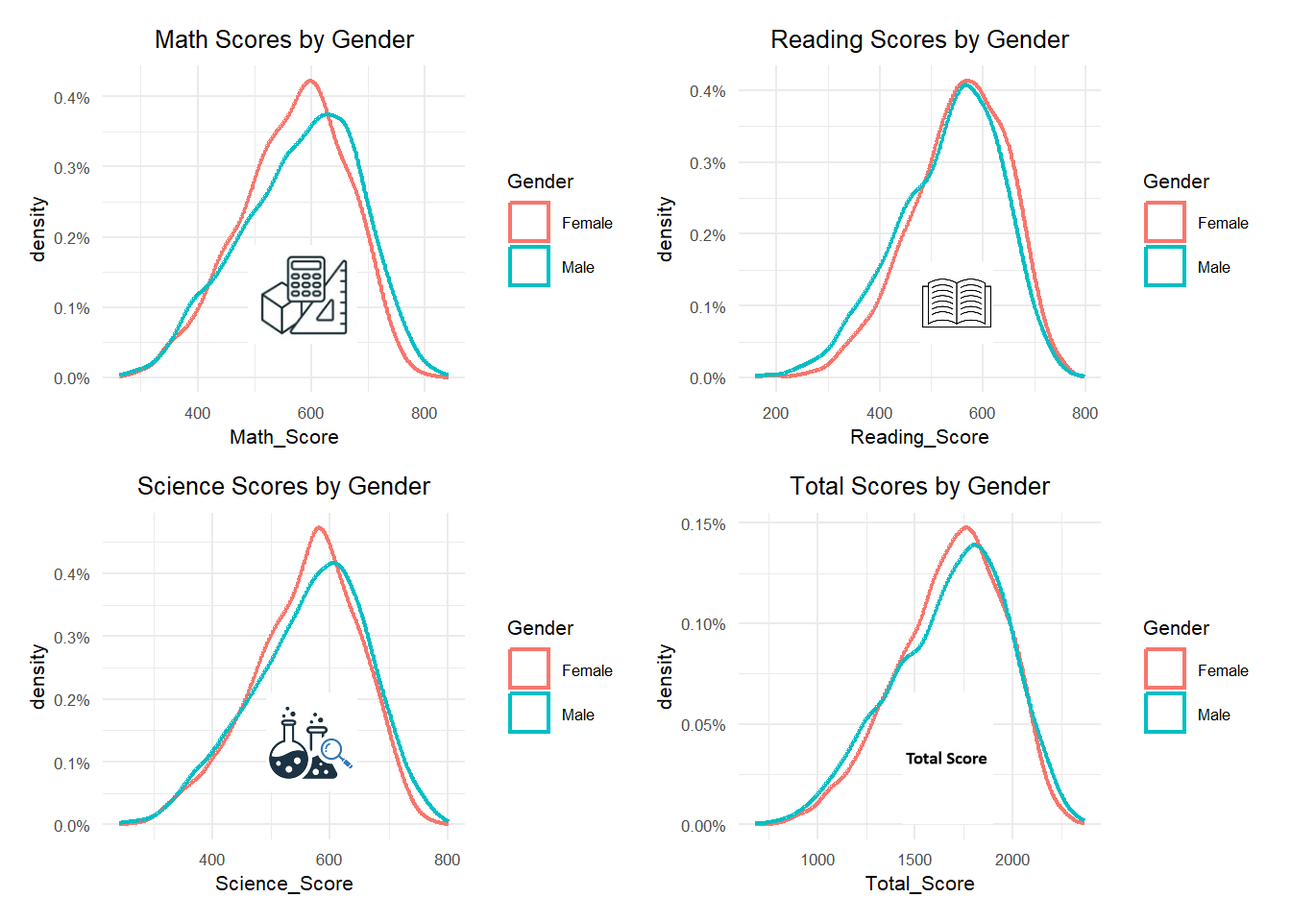
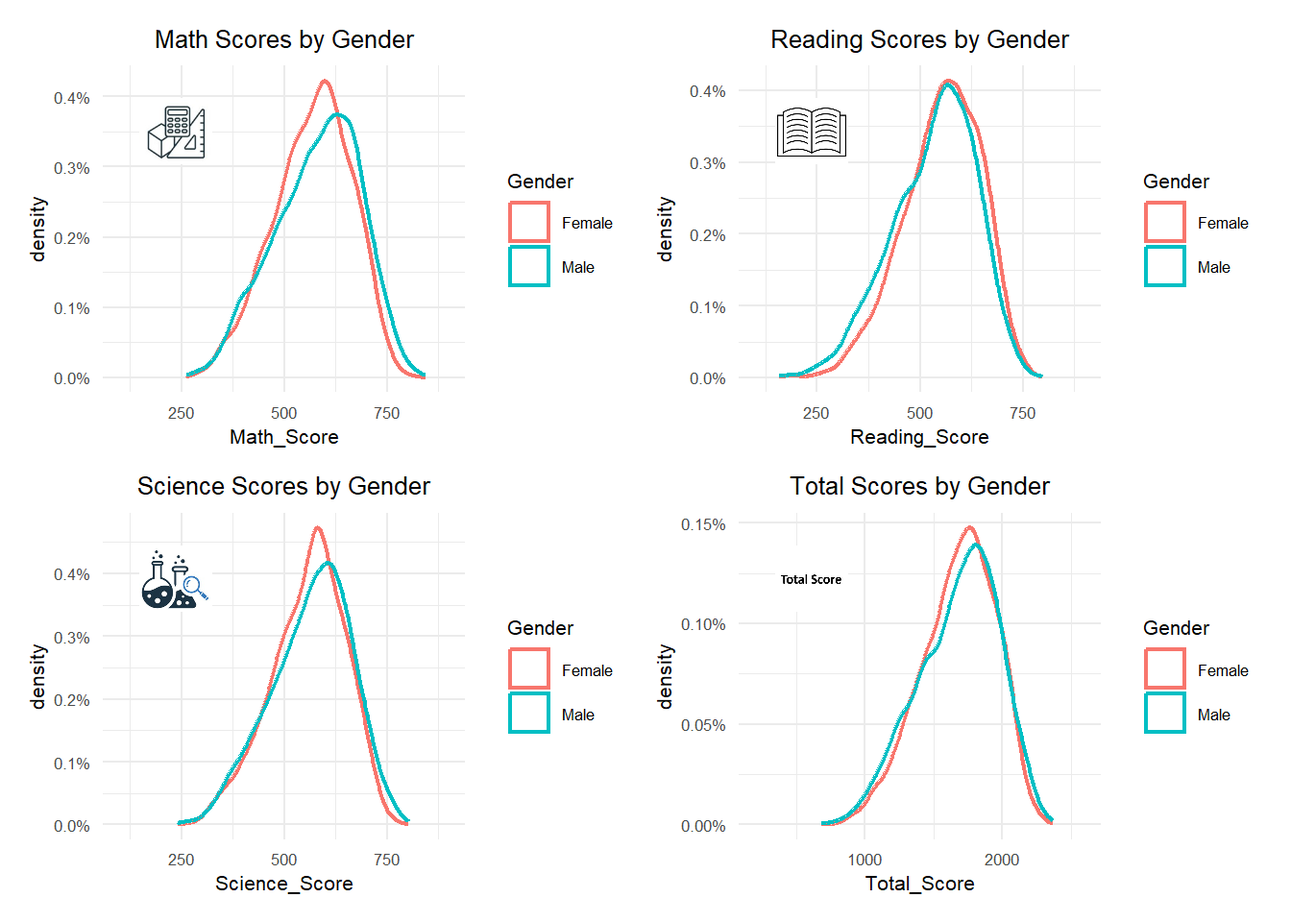
Commit

diff --git a/_site/Take-home_Ex/Take-home_Ex02/Take-home_Ex02.html b/_site/Take-home_Ex/Take-home_Ex02/Take-home_Ex02.html
@@ -443,73 +443,77 @@ pre > code.sourceCode > span > a:first-child::before { text-decoration: underlin
 <span id="cb6-6"><a href="#cb6-6" aria-hidden="true" tabindex="-1"></a>  <span class="fu">labs</span>(<span class="at">title =</span> <span class="st">"Math Scores by Gender"</span>) <span class="sc">+</span></span>
 <span id="cb6-7"><a href="#cb6-7" aria-hidden="true" tabindex="-1"></a>  <span class="fu">theme</span>(<span class="at">legend.position =</span> <span class="st">"none"</span>) <span class="sc">+</span></span>
 <span id="cb6-8"><a href="#cb6-8" aria-hidden="true" tabindex="-1"></a>  <span class="fu">scale_y_continuous</span>(<span class="at">labels =</span> scales<span class="sc">::</span>percent) <span class="sc">+</span></span>
-<span id="cb6-9"><a href="#cb6-9" aria-hidden="true" tabindex="-1"></a>  <span class="fu">theme_minimal</span>() <span class="sc">+</span></span>
-<span id="cb6-10"><a href="#cb6-10" aria-hidden="true" tabindex="-1"></a>  <span class="fu">theme</span>(<span class="at">text =</span> <span class="fu">element_text</span>(<span class="at">size =</span> <span class="dv">8</span>), <span class="at">plot.title =</span> <span class="fu">element_text</span>(<span class="at">hjust =</span> <span class="fl">0.5</span>))</span>
-<span id="cb6-11"><a href="#cb6-11" aria-hidden="true" tabindex="-1"></a></span>
-<span id="cb6-12"><a href="#cb6-12" aria-hidden="true" tabindex="-1"></a>plot1_img <span class="ot">&lt;-</span> plot1 <span class="sc">+</span></span>
-<span id="cb6-13"><a href="#cb6-13" aria-hidden="true" tabindex="-1"></a>  <span class="fu">inset_element</span>(<span class="at">p =</span> img_maths,</span>
-<span id="cb6-14"><a href="#cb6-14" aria-hidden="true" tabindex="-1"></a>                 <span class="at">left =</span> <span class="fl">0.4</span>,</span>
-<span id="cb6-15"><a href="#cb6-15" aria-hidden="true" tabindex="-1"></a>                 <span class="at">bottom =</span> <span class="fl">0.15</span>,</span>
-<span id="cb6-16"><a href="#cb6-16" aria-hidden="true" tabindex="-1"></a>                 <span class="at">right =</span> <span class="fl">0.7</span>,</span>
-<span id="cb6-17"><a href="#cb6-17" aria-hidden="true" tabindex="-1"></a>                 <span class="at">top =</span> <span class="fl">0.45</span>)</span>
-<span id="cb6-18"><a href="#cb6-18" aria-hidden="true" tabindex="-1"></a></span>
-<span id="cb6-19"><a href="#cb6-19" aria-hidden="true" tabindex="-1"></a><span class="co"># Reading: Plot the density curves by gender with reading image</span></span>
-<span id="cb6-20"><a href="#cb6-20" aria-hidden="true" tabindex="-1"></a>img_read <span class="ot">&lt;-</span> <span class="fu">readJPEG</span>(<span class="st">"images/Reading.jpg"</span>, <span class="at">native =</span> <span class="cn">TRUE</span>)</span>
-<span id="cb6-21"><a href="#cb6-21" aria-hidden="true" tabindex="-1"></a></span>
-<span id="cb6-22"><a href="#cb6-22" aria-hidden="true" tabindex="-1"></a>plot2 <span class="ot">&lt;-</span> <span class="fu">ggplot</span>(<span class="at">data =</span> PV, <span class="fu">aes</span>(<span class="at">x =</span> Reading_Score, <span class="at">color =</span> Gender)) <span class="sc">+</span></span>
-<span id="cb6-23"><a href="#cb6-23" aria-hidden="true" tabindex="-1"></a>  <span class="fu">geom_density</span>(<span class="at">alpha =</span> <span class="fl">0.7</span>, <span class="at">position =</span> <span class="st">"identity"</span>, <span class="at">stat =</span> <span class="st">"Density"</span>, <span class="at">lwd =</span> <span class="fl">0.8</span>) <span class="sc">+</span></span>
-<span id="cb6-24"><a href="#cb6-24" aria-hidden="true" tabindex="-1"></a>  <span class="fu">labs</span>(<span class="at">title =</span> <span class="st">"Reading Scores by Gender"</span>) <span class="sc">+</span></span>
-<span id="cb6-25"><a href="#cb6-25" aria-hidden="true" tabindex="-1"></a>  <span class="fu">theme</span>(<span class="at">legend.position =</span> <span class="st">"none"</span>) <span class="sc">+</span></span>
-<span id="cb6-26"><a href="#cb6-26" aria-hidden="true" tabindex="-1"></a>  <span class="fu">scale_y_continuous</span>(<span class="at">labels =</span> scales<span class="sc">::</span>percent)<span class="sc">+</span></span>
-<span id="cb6-27"><a href="#cb6-27" aria-hidden="true" tabindex="-1"></a>  <span class="fu">theme_minimal</span>() <span class="sc">+</span></span>
-<span id="cb6-28"><a href="#cb6-28" aria-hidden="true" tabindex="-1"></a>  <span class="fu">theme</span>(<span class="at">text =</span> <span class="fu">element_text</span>(<span class="at">size =</span> <span class="dv">8</span>),</span>
-<span id="cb6-29"><a href="#cb6-29" aria-hidden="true" tabindex="-1"></a>        <span class="at">plot.title =</span> <span class="fu">element_text</span>(<span class="at">hjust =</span> <span class="fl">0.5</span>))</span>
-<span id="cb6-30"><a href="#cb6-30" aria-hidden="true" tabindex="-1"></a></span>
-<span id="cb6-31"><a href="#cb6-31" aria-hidden="true" tabindex="-1"></a>plot2_img <span class="ot">&lt;-</span> plot2 <span class="sc">+</span></span>
-<span id="cb6-32"><a href="#cb6-32" aria-hidden="true" tabindex="-1"></a>  <span class="fu">inset_element</span>(<span class="at">p =</span> img_read,</span>
-<span id="cb6-33"><a href="#cb6-33" aria-hidden="true" tabindex="-1"></a>                 <span class="at">left =</span> <span class="fl">0.5</span>,</span>
-<span id="cb6-34"><a href="#cb6-34" aria-hidden="true" tabindex="-1"></a>                 <span class="at">bottom =</span> <span class="fl">0.15</span>,</span>
-<span id="cb6-35"><a href="#cb6-35" aria-hidden="true" tabindex="-1"></a>                 <span class="at">right =</span> <span class="fl">0.7</span>,</span>
-<span id="cb6-36"><a href="#cb6-36" aria-hidden="true" tabindex="-1"></a>                 <span class="at">top =</span> <span class="fl">0.4</span>)</span>
-<span id="cb6-37"><a href="#cb6-37" aria-hidden="true" tabindex="-1"></a></span>
-<span id="cb6-38"><a href="#cb6-38" aria-hidden="true" tabindex="-1"></a><span class="co"># English: Plot the density curves by gender with English image</span></span>
-<span id="cb6-39"><a href="#cb6-39" aria-hidden="true" tabindex="-1"></a>img_science <span class="ot">&lt;-</span> <span class="fu">readJPEG</span>(<span class="st">"images/Science.jpg"</span>, <span class="at">native =</span> <span class="cn">TRUE</span>)</span>
-<span id="cb6-40"><a href="#cb6-40" aria-hidden="true" tabindex="-1"></a></span>
-<span id="cb6-41"><a href="#cb6-41" aria-hidden="true" tabindex="-1"></a>plot3 <span class="ot">&lt;-</span> <span class="fu">ggplot</span>(<span class="at">data =</span> PV, <span class="fu">aes</span>(<span class="at">x =</span> Science_Score, <span class="at">color =</span> Gender)) <span class="sc">+</span></span>
-<span id="cb6-42"><a href="#cb6-42" aria-hidden="true" tabindex="-1"></a>  <span class="fu">geom_density</span>(<span class="at">alpha =</span> <span class="fl">0.7</span>, <span class="at">position =</span> <span class="st">"identity"</span>, <span class="at">stat =</span> <span class="st">"Density"</span>, <span class="at">lwd =</span> <span class="fl">0.8</span>) <span class="sc">+</span></span>
-<span id="cb6-43"><a href="#cb6-43" aria-hidden="true" tabindex="-1"></a>  <span class="fu">labs</span>(<span class="at">title =</span> <span class="st">"Science Scores by Gender"</span>) <span class="sc">+</span></span>
-<span id="cb6-44"><a href="#cb6-44" aria-hidden="true" tabindex="-1"></a>  <span class="fu">theme</span>(<span class="at">legend.position =</span> <span class="st">"none"</span>) <span class="sc">+</span></span>
-<span id="cb6-45"><a href="#cb6-45" aria-hidden="true" tabindex="-1"></a>  <span class="fu">scale_y_continuous</span>(<span class="at">labels =</span> scales<span class="sc">::</span>percent)<span class="sc">+</span></span>
-<span id="cb6-46"><a href="#cb6-46" aria-hidden="true" tabindex="-1"></a>  <span class="fu">theme_minimal</span>() <span class="sc">+</span></span>
-<span id="cb6-47"><a href="#cb6-47" aria-hidden="true" tabindex="-1"></a>  <span class="fu">theme</span>(<span class="at">text =</span> <span class="fu">element_text</span>(<span class="at">size =</span> <span class="dv">8</span>),</span>
-<span id="cb6-48"><a href="#cb6-48" aria-hidden="true" tabindex="-1"></a>        <span class="at">plot.title =</span> <span class="fu">element_text</span>(<span class="at">hjust =</span> <span class="fl">0.5</span>))</span>
-<span id="cb6-49"><a href="#cb6-49" aria-hidden="true" tabindex="-1"></a></span>
-<span id="cb6-50"><a href="#cb6-50" aria-hidden="true" tabindex="-1"></a>plot3_img <span class="ot">&lt;-</span> plot3 <span class="sc">+</span></span>
-<span id="cb6-51"><a href="#cb6-51" aria-hidden="true" tabindex="-1"></a>  <span class="fu">inset_element</span>(<span class="at">p =</span> img_science,</span>
-<span id="cb6-52"><a href="#cb6-52" aria-hidden="true" tabindex="-1"></a>                 <span class="at">left =</span> <span class="fl">0.45</span>,</span>
-<span id="cb6-53"><a href="#cb6-53" aria-hidden="true" tabindex="-1"></a>                 <span class="at">bottom =</span> <span class="fl">0.15</span>,</span>
-<span id="cb6-54"><a href="#cb6-54" aria-hidden="true" tabindex="-1"></a>                 <span class="at">right =</span> <span class="fl">0.7</span>,</span>
-<span id="cb6-55"><a href="#cb6-55" aria-hidden="true" tabindex="-1"></a>                 <span class="at">top =</span> <span class="fl">0.45</span>)</span>
-<span id="cb6-56"><a href="#cb6-56" aria-hidden="true" tabindex="-1"></a></span>
-<span id="cb6-57"><a href="#cb6-57" aria-hidden="true" tabindex="-1"></a><span class="co"># Total: Plot the density curves by gender with total image</span></span>
-<span id="cb6-58"><a href="#cb6-58" aria-hidden="true" tabindex="-1"></a>img_total <span class="ot">&lt;-</span> <span class="fu">readJPEG</span>(<span class="st">"images/Total.jpg"</span>, <span class="at">native =</span> <span class="cn">TRUE</span>)</span>
+<span id="cb6-9"><a href="#cb6-9" aria-hidden="true" tabindex="-1"></a>  <span class="fu">coord_cartesian</span>(<span class="at">xlim =</span> <span class="fu">c</span>(<span class="dv">100</span>, <span class="dv">900</span>)) <span class="sc">+</span></span>
+<span id="cb6-10"><a href="#cb6-10" aria-hidden="true" tabindex="-1"></a>  <span class="fu">theme_minimal</span>() <span class="sc">+</span></span>
+<span id="cb6-11"><a href="#cb6-11" aria-hidden="true" tabindex="-1"></a>  <span class="fu">theme</span>(<span class="at">text =</span> <span class="fu">element_text</span>(<span class="at">size =</span> <span class="dv">8</span>), <span class="at">plot.title =</span> <span class="fu">element_text</span>(<span class="at">hjust =</span> <span class="fl">0.5</span>))</span>
+<span id="cb6-12"><a href="#cb6-12" aria-hidden="true" tabindex="-1"></a></span>
+<span id="cb6-13"><a href="#cb6-13" aria-hidden="true" tabindex="-1"></a>plot1_img <span class="ot">&lt;-</span> plot1 <span class="sc">+</span></span>
+<span id="cb6-14"><a href="#cb6-14" aria-hidden="true" tabindex="-1"></a>  <span class="fu">inset_element</span>(<span class="at">p =</span> img_maths,</span>
+<span id="cb6-15"><a href="#cb6-15" aria-hidden="true" tabindex="-1"></a>                 <span class="at">left =</span> <span class="fl">0.1</span>,</span>
+<span id="cb6-16"><a href="#cb6-16" aria-hidden="true" tabindex="-1"></a>                 <span class="at">bottom =</span> <span class="fl">0.7</span>,</span>
+<span id="cb6-17"><a href="#cb6-17" aria-hidden="true" tabindex="-1"></a>                 <span class="at">right =</span> <span class="fl">0.3</span>,</span>
+<span id="cb6-18"><a href="#cb6-18" aria-hidden="true" tabindex="-1"></a>                 <span class="at">top =</span> <span class="fl">0.9</span>)</span>
+<span id="cb6-19"><a href="#cb6-19" aria-hidden="true" tabindex="-1"></a></span>
+<span id="cb6-20"><a href="#cb6-20" aria-hidden="true" tabindex="-1"></a><span class="co"># Reading: Plot the density curves by gender with reading image</span></span>
+<span id="cb6-21"><a href="#cb6-21" aria-hidden="true" tabindex="-1"></a>img_read <span class="ot">&lt;-</span> <span class="fu">readJPEG</span>(<span class="st">"images/Reading.jpg"</span>, <span class="at">native =</span> <span class="cn">TRUE</span>)</span>
+<span id="cb6-22"><a href="#cb6-22" aria-hidden="true" tabindex="-1"></a></span>
+<span id="cb6-23"><a href="#cb6-23" aria-hidden="true" tabindex="-1"></a>plot2 <span class="ot">&lt;-</span> <span class="fu">ggplot</span>(<span class="at">data =</span> PV, <span class="fu">aes</span>(<span class="at">x =</span> Reading_Score, <span class="at">color =</span> Gender)) <span class="sc">+</span></span>
+<span id="cb6-24"><a href="#cb6-24" aria-hidden="true" tabindex="-1"></a>  <span class="fu">geom_density</span>(<span class="at">alpha =</span> <span class="fl">0.7</span>, <span class="at">position =</span> <span class="st">"identity"</span>, <span class="at">stat =</span> <span class="st">"Density"</span>, <span class="at">lwd =</span> <span class="fl">0.8</span>) <span class="sc">+</span></span>
+<span id="cb6-25"><a href="#cb6-25" aria-hidden="true" tabindex="-1"></a>  <span class="fu">labs</span>(<span class="at">title =</span> <span class="st">"Reading Scores by Gender"</span>) <span class="sc">+</span></span>
+<span id="cb6-26"><a href="#cb6-26" aria-hidden="true" tabindex="-1"></a>  <span class="fu">theme</span>(<span class="at">legend.position =</span> <span class="st">"none"</span>) <span class="sc">+</span></span>
+<span id="cb6-27"><a href="#cb6-27" aria-hidden="true" tabindex="-1"></a>  <span class="fu">scale_y_continuous</span>(<span class="at">labels =</span> scales<span class="sc">::</span>percent)<span class="sc">+</span></span>
+<span id="cb6-28"><a href="#cb6-28" aria-hidden="true" tabindex="-1"></a>  <span class="fu">coord_cartesian</span>(<span class="at">xlim =</span> <span class="fu">c</span>(<span class="dv">100</span>, <span class="dv">900</span>)) <span class="sc">+</span></span>
+<span id="cb6-29"><a href="#cb6-29" aria-hidden="true" tabindex="-1"></a>  <span class="fu">theme_minimal</span>() <span class="sc">+</span></span>
+<span id="cb6-30"><a href="#cb6-30" aria-hidden="true" tabindex="-1"></a>  <span class="fu">theme</span>(<span class="at">text =</span> <span class="fu">element_text</span>(<span class="at">size =</span> <span class="dv">8</span>),</span>
+<span id="cb6-31"><a href="#cb6-31" aria-hidden="true" tabindex="-1"></a>        <span class="at">plot.title =</span> <span class="fu">element_text</span>(<span class="at">hjust =</span> <span class="fl">0.5</span>))</span>
+<span id="cb6-32"><a href="#cb6-32" aria-hidden="true" tabindex="-1"></a></span>
+<span id="cb6-33"><a href="#cb6-33" aria-hidden="true" tabindex="-1"></a>plot2_img <span class="ot">&lt;-</span> plot2 <span class="sc">+</span></span>
+<span id="cb6-34"><a href="#cb6-34" aria-hidden="true" tabindex="-1"></a>  <span class="fu">inset_element</span>(<span class="at">p =</span> img_read,</span>
+<span id="cb6-35"><a href="#cb6-35" aria-hidden="true" tabindex="-1"></a>                 <span class="at">left =</span> <span class="fl">0.1</span>,</span>
+<span id="cb6-36"><a href="#cb6-36" aria-hidden="true" tabindex="-1"></a>                 <span class="at">bottom =</span> <span class="fl">0.7</span>,</span>
+<span id="cb6-37"><a href="#cb6-37" aria-hidden="true" tabindex="-1"></a>                 <span class="at">right =</span> <span class="fl">0.3</span>,</span>
+<span id="cb6-38"><a href="#cb6-38" aria-hidden="true" tabindex="-1"></a>                 <span class="at">top =</span> <span class="fl">0.9</span>)</span>
+<span id="cb6-39"><a href="#cb6-39" aria-hidden="true" tabindex="-1"></a></span>
+<span id="cb6-40"><a href="#cb6-40" aria-hidden="true" tabindex="-1"></a><span class="co"># English: Plot the density curves by gender with English image</span></span>
+<span id="cb6-41"><a href="#cb6-41" aria-hidden="true" tabindex="-1"></a>img_science <span class="ot">&lt;-</span> <span class="fu">readJPEG</span>(<span class="st">"images/Science.jpg"</span>, <span class="at">native =</span> <span class="cn">TRUE</span>)</span>
+<span id="cb6-42"><a href="#cb6-42" aria-hidden="true" tabindex="-1"></a></span>
+<span id="cb6-43"><a href="#cb6-43" aria-hidden="true" tabindex="-1"></a>plot3 <span class="ot">&lt;-</span> <span class="fu">ggplot</span>(<span class="at">data =</span> PV, <span class="fu">aes</span>(<span class="at">x =</span> Science_Score, <span class="at">color =</span> Gender)) <span class="sc">+</span></span>
+<span id="cb6-44"><a href="#cb6-44" aria-hidden="true" tabindex="-1"></a>  <span class="fu">geom_density</span>(<span class="at">alpha =</span> <span class="fl">0.7</span>, <span class="at">position =</span> <span class="st">"identity"</span>, <span class="at">stat =</span> <span class="st">"Density"</span>, <span class="at">lwd =</span> <span class="fl">0.8</span>) <span class="sc">+</span></span>
+<span id="cb6-45"><a href="#cb6-45" aria-hidden="true" tabindex="-1"></a>  <span class="fu">labs</span>(<span class="at">title =</span> <span class="st">"Science Scores by Gender"</span>) <span class="sc">+</span></span>
+<span id="cb6-46"><a href="#cb6-46" aria-hidden="true" tabindex="-1"></a>  <span class="fu">theme</span>(<span class="at">legend.position =</span> <span class="st">"none"</span>) <span class="sc">+</span></span>
+<span id="cb6-47"><a href="#cb6-47" aria-hidden="true" tabindex="-1"></a>  <span class="fu">scale_y_continuous</span>(<span class="at">labels =</span> scales<span class="sc">::</span>percent)<span class="sc">+</span></span>
+<span id="cb6-48"><a href="#cb6-48" aria-hidden="true" tabindex="-1"></a>  <span class="fu">coord_cartesian</span>(<span class="at">xlim =</span> <span class="fu">c</span>(<span class="dv">100</span>, <span class="dv">900</span>)) <span class="sc">+</span></span>
+<span id="cb6-49"><a href="#cb6-49" aria-hidden="true" tabindex="-1"></a>  <span class="fu">theme_minimal</span>() <span class="sc">+</span></span>
+<span id="cb6-50"><a href="#cb6-50" aria-hidden="true" tabindex="-1"></a>  <span class="fu">theme</span>(<span class="at">text =</span> <span class="fu">element_text</span>(<span class="at">size =</span> <span class="dv">8</span>),</span>
+<span id="cb6-51"><a href="#cb6-51" aria-hidden="true" tabindex="-1"></a>        <span class="at">plot.title =</span> <span class="fu">element_text</span>(<span class="at">hjust =</span> <span class="fl">0.5</span>))</span>
+<span id="cb6-52"><a href="#cb6-52" aria-hidden="true" tabindex="-1"></a></span>
+<span id="cb6-53"><a href="#cb6-53" aria-hidden="true" tabindex="-1"></a>plot3_img <span class="ot">&lt;-</span> plot3 <span class="sc">+</span></span>
+<span id="cb6-54"><a href="#cb6-54" aria-hidden="true" tabindex="-1"></a>  <span class="fu">inset_element</span>(<span class="at">p =</span> img_science,</span>
+<span id="cb6-55"><a href="#cb6-55" aria-hidden="true" tabindex="-1"></a>                 <span class="at">left =</span> <span class="fl">0.1</span>,</span>
+<span id="cb6-56"><a href="#cb6-56" aria-hidden="true" tabindex="-1"></a>                 <span class="at">bottom =</span> <span class="fl">0.7</span>,</span>
+<span id="cb6-57"><a href="#cb6-57" aria-hidden="true" tabindex="-1"></a>                 <span class="at">right =</span> <span class="fl">0.3</span>,</span>
+<span id="cb6-58"><a href="#cb6-58" aria-hidden="true" tabindex="-1"></a>                 <span class="at">top =</span> <span class="fl">0.9</span>)</span>
 <span id="cb6-59"><a href="#cb6-59" aria-hidden="true" tabindex="-1"></a></span>
-<span id="cb6-60"><a href="#cb6-60" aria-hidden="true" tabindex="-1"></a>plot4 <span class="ot">&lt;-</span> <span class="fu">ggplot</span>(<span class="at">data =</span> PV, <span class="fu">aes</span>(<span class="at">x =</span> Total_Score, <span class="at">color =</span> Gender)) <span class="sc">+</span></span>
-<span id="cb6-61"><a href="#cb6-61" aria-hidden="true" tabindex="-1"></a>  <span class="fu">geom_density</span>(<span class="at">alpha =</span> <span class="fl">0.7</span>, <span class="at">position =</span> <span class="st">"identity"</span>, <span class="at">stat =</span> <span class="st">"density"</span>, <span class="at">lwd =</span> <span class="fl">0.8</span>) <span class="sc">+</span></span>
-<span id="cb6-62"><a href="#cb6-62" aria-hidden="true" tabindex="-1"></a>  <span class="fu">labs</span>(<span class="at">title =</span> <span class="st">"Total Scores by Gender"</span>) <span class="sc">+</span> </span>
-<span id="cb6-63"><a href="#cb6-63" aria-hidden="true" tabindex="-1"></a>  <span class="fu">scale_y_continuous</span>(<span class="at">labels =</span> scales<span class="sc">::</span>percent)<span class="sc">+</span></span>
-<span id="cb6-64"><a href="#cb6-64" aria-hidden="true" tabindex="-1"></a>  <span class="fu">theme_minimal</span>() <span class="sc">+</span></span>
-<span id="cb6-65"><a href="#cb6-65" aria-hidden="true" tabindex="-1"></a>  <span class="fu">theme</span>(<span class="at">text =</span> <span class="fu">element_text</span>(<span class="at">size =</span> <span class="dv">8</span>),</span>
-<span id="cb6-66"><a href="#cb6-66" aria-hidden="true" tabindex="-1"></a>        <span class="at">plot.title =</span> <span class="fu">element_text</span>(<span class="at">hjust =</span> <span class="fl">0.5</span>))</span>
-<span id="cb6-67"><a href="#cb6-67" aria-hidden="true" tabindex="-1"></a></span>
-<span id="cb6-68"><a href="#cb6-68" aria-hidden="true" tabindex="-1"></a>plot4_img <span class="ot">&lt;-</span> plot4 <span class="sc">+</span></span>
-<span id="cb6-69"><a href="#cb6-69" aria-hidden="true" tabindex="-1"></a>  <span class="fu">inset_element</span>(<span class="at">p =</span> img_total,</span>
-<span id="cb6-70"><a href="#cb6-70" aria-hidden="true" tabindex="-1"></a>                 <span class="at">left =</span> <span class="fl">0.45</span>,</span>
-<span id="cb6-71"><a href="#cb6-71" aria-hidden="true" tabindex="-1"></a>                 <span class="at">bottom =</span> <span class="fl">0.05</span>,</span>
-<span id="cb6-72"><a href="#cb6-72" aria-hidden="true" tabindex="-1"></a>                 <span class="at">right =</span> <span class="fl">0.7</span>,</span>
-<span id="cb6-73"><a href="#cb6-73" aria-hidden="true" tabindex="-1"></a>                 <span class="at">top =</span> <span class="fl">0.45</span>)</span>
-<span id="cb6-74"><a href="#cb6-74" aria-hidden="true" tabindex="-1"></a></span>
-<span id="cb6-75"><a href="#cb6-75" aria-hidden="true" tabindex="-1"></a>plot1_img <span class="sc">+</span> plot2_img <span class="sc">+</span> plot3_img <span class="sc">+</span> plot4_img</span></code><button title="Copy to Clipboard" class="code-copy-button"><i class="bi"></i></button></pre></div>
+<span id="cb6-60"><a href="#cb6-60" aria-hidden="true" tabindex="-1"></a><span class="co"># Total: Plot the density curves by gender with total image</span></span>
+<span id="cb6-61"><a href="#cb6-61" aria-hidden="true" tabindex="-1"></a>img_total <span class="ot">&lt;-</span> <span class="fu">readJPEG</span>(<span class="st">"images/Total.jpg"</span>, <span class="at">native =</span> <span class="cn">TRUE</span>)</span>
+<span id="cb6-62"><a href="#cb6-62" aria-hidden="true" tabindex="-1"></a></span>
+<span id="cb6-63"><a href="#cb6-63" aria-hidden="true" tabindex="-1"></a>plot4 <span class="ot">&lt;-</span> <span class="fu">ggplot</span>(<span class="at">data =</span> PV, <span class="fu">aes</span>(<span class="at">x =</span> Total_Score, <span class="at">color =</span> Gender)) <span class="sc">+</span></span>
+<span id="cb6-64"><a href="#cb6-64" aria-hidden="true" tabindex="-1"></a>  <span class="fu">geom_density</span>(<span class="at">alpha =</span> <span class="fl">0.7</span>, <span class="at">position =</span> <span class="st">"identity"</span>, <span class="at">stat =</span> <span class="st">"density"</span>, <span class="at">lwd =</span> <span class="fl">0.8</span>) <span class="sc">+</span></span>
+<span id="cb6-65"><a href="#cb6-65" aria-hidden="true" tabindex="-1"></a>  <span class="fu">labs</span>(<span class="at">title =</span> <span class="st">"Total Scores by Gender"</span>) <span class="sc">+</span> </span>
+<span id="cb6-66"><a href="#cb6-66" aria-hidden="true" tabindex="-1"></a>  <span class="fu">scale_y_continuous</span>(<span class="at">labels =</span> scales<span class="sc">::</span>percent)<span class="sc">+</span></span>
+<span id="cb6-67"><a href="#cb6-67" aria-hidden="true" tabindex="-1"></a>  <span class="fu">coord_cartesian</span>(<span class="at">xlim =</span> <span class="fu">c</span>(<span class="dv">200</span>, <span class="dv">2600</span>)) <span class="sc">+</span></span>
+<span id="cb6-68"><a href="#cb6-68" aria-hidden="true" tabindex="-1"></a>  <span class="fu">theme_minimal</span>() <span class="sc">+</span></span>
+<span id="cb6-69"><a href="#cb6-69" aria-hidden="true" tabindex="-1"></a>  <span class="fu">theme</span>(<span class="at">text =</span> <span class="fu">element_text</span>(<span class="at">size =</span> <span class="dv">8</span>),</span>
+<span id="cb6-70"><a href="#cb6-70" aria-hidden="true" tabindex="-1"></a>        <span class="at">plot.title =</span> <span class="fu">element_text</span>(<span class="at">hjust =</span> <span class="fl">0.5</span>))</span>
+<span id="cb6-71"><a href="#cb6-71" aria-hidden="true" tabindex="-1"></a></span>
+<span id="cb6-72"><a href="#cb6-72" aria-hidden="true" tabindex="-1"></a>plot4_img <span class="ot">&lt;-</span> plot4 <span class="sc">+</span></span>
+<span id="cb6-73"><a href="#cb6-73" aria-hidden="true" tabindex="-1"></a>  <span class="fu">inset_element</span>(<span class="at">p =</span> img_total,</span>
+<span id="cb6-74"><a href="#cb6-74" aria-hidden="true" tabindex="-1"></a>                 <span class="at">left =</span> <span class="fl">0.1</span>,</span>
+<span id="cb6-75"><a href="#cb6-75" aria-hidden="true" tabindex="-1"></a>                 <span class="at">bottom =</span> <span class="fl">0.7</span>,</span>
+<span id="cb6-76"><a href="#cb6-76" aria-hidden="true" tabindex="-1"></a>                 <span class="at">right =</span> <span class="fl">0.3</span>,</span>
+<span id="cb6-77"><a href="#cb6-77" aria-hidden="true" tabindex="-1"></a>                 <span class="at">top =</span> <span class="fl">0.9</span>)</span>
+<span id="cb6-78"><a href="#cb6-78" aria-hidden="true" tabindex="-1"></a></span>
+<span id="cb6-79"><a href="#cb6-79" aria-hidden="true" tabindex="-1"></a>plot1_img <span class="sc">+</span> plot2_img <span class="sc">+</span> plot3_img <span class="sc">+</span> plot4_img</span></code><button title="Copy to Clipboard" class="code-copy-button"><i class="bi"></i></button></pre></div>
 </div>
 </div>
 </div>
